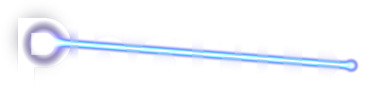
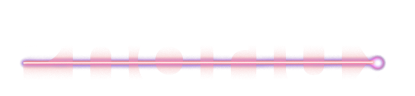
Update navbar wordmark to v04 (pink beam) + widen link clearance
Swap the navy/blue-beam wordmark for the owner-supplied v04 (navy text, pink
laser). Regenerate light + recoloured dark PNGs (trimmed to artwork, downscaled).
The mark is slightly wider (~4.3:1), so bump the centred-link padding 80->88px
to keep clearance.

Changed region(s): [[0.0287, 0.2188, 0.9478, 0.75], [0.0574, 0.125, 0.1436, 0.1875]]

diff --git a/src/css/custom.css b/src/css/custom.css
@@ -175,9 +175,9 @@ body {
   .navbar__items:not(.navbar__items--right) {
     flex: 1;
     justify-content: center;
-    /* Clear the left-pinned wordmark (~104px wide) so the centred links don't
+    /* Clear the left-pinned wordmark (~112px wide) so the centred links don't
        overlap it. */
-    padding-left: 80px;
+    padding-left: 88px;
   }
   .navbar__brand {
     position: absolute;
